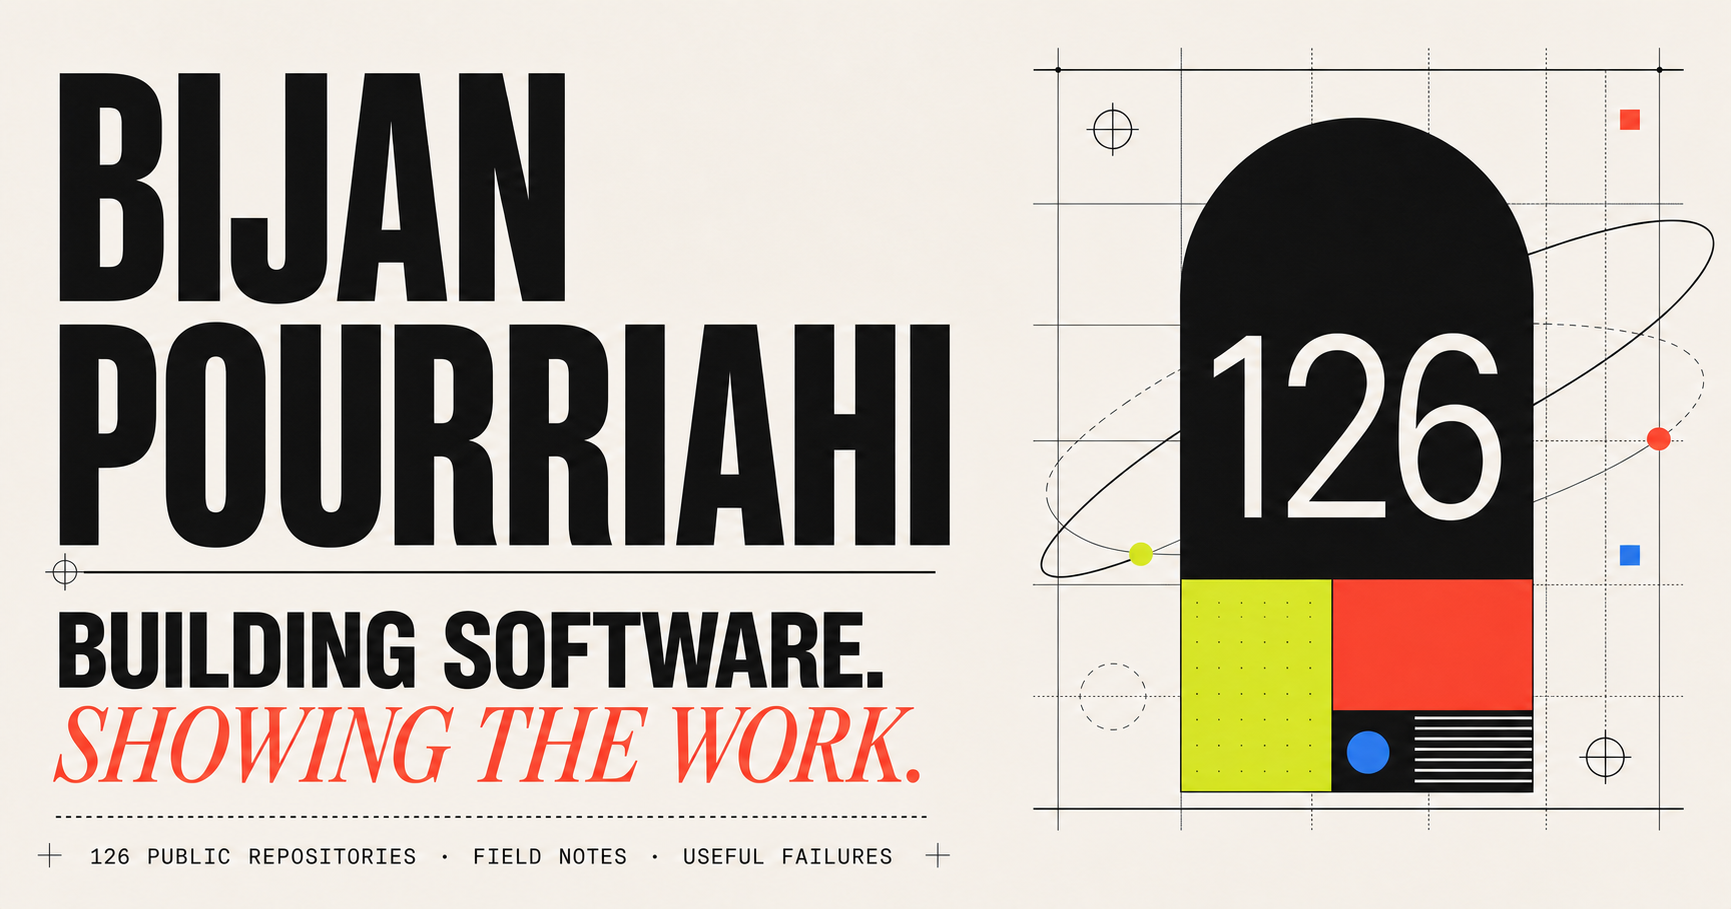
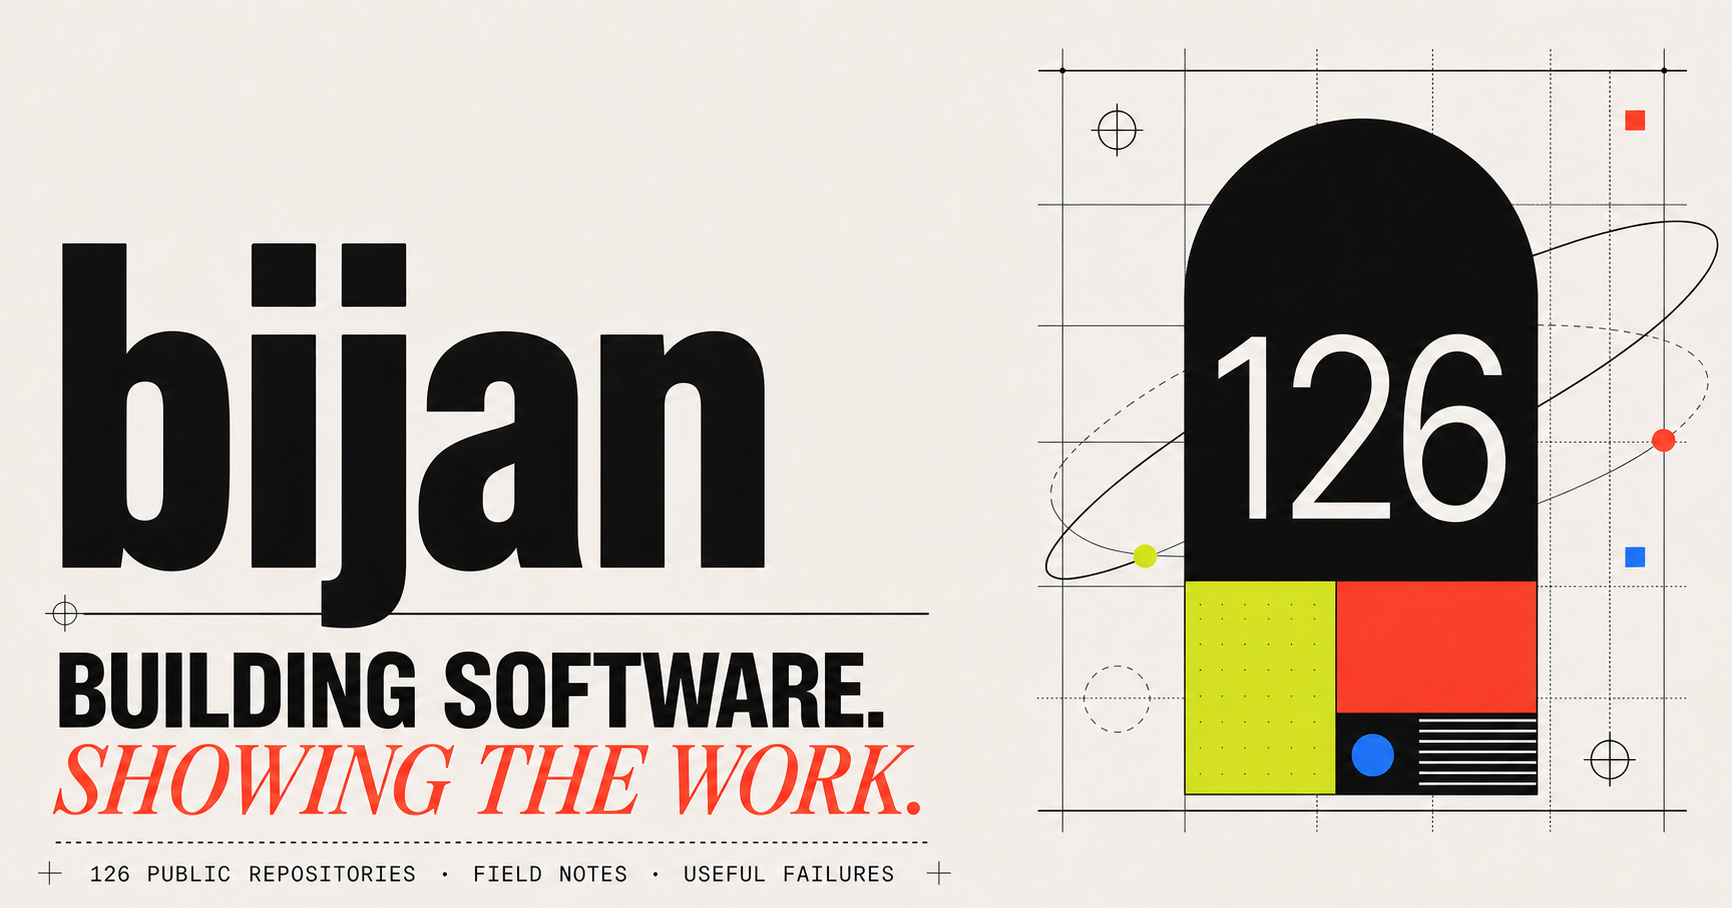
Use lowercase bijan identity

diff --git a/app/about/page.tsx b/app/about/page.tsx
@@ -2,7 +2,7 @@ import type { Metadata } from "next";
 import { PersonalSiteShell } from "@/components/PersonalSiteShell";
 import styles from "../site-pages.module.css";
 
-export const metadata: Metadata = { title: "About", description: "About Bijan Pourriahi." };
+export const metadata: Metadata = { title: "About", description: "About bijan." };
 
 const rules = [
   ["01", "show the state", "If a machine knows something important, the person operating it should be able to see it."],
@@ -14,10 +14,10 @@ export default function AboutPage() {
   return (
     <PersonalSiteShell section="about">
       <main>
-        <section className={styles.hero} data-mark="@"><p className={styles.overline}>about the person</p><h1>Bijan<br /><span>Pourriahi.</span></h1><p className={styles.deck}>Software engineer. I like systems that can explain what they are doing.</p></section>
+        <section className={styles.hero} data-mark="@"><p className={styles.overline}>about the person</p><h1><span>bijan.</span></h1><p className={styles.deck}>Software engineer. I like systems that can explain what they are doing.</p></section>
         <section className={styles.split}>
           <ul className={styles.facts}>
-            <li><span>github</span><span>beejmaxx</span></li><li><span>since</span><span>2010</span></li><li><span>repos</span><span>126 public</span></li><li><span>usual tools</span><span>Rust / Python / TS</span></li><li><span>email</span><span>bijan.pourriahi@gmail.com</span></li>
+            <li><span>github</span><span>beejmaxx</span></li><li><span>since</span><span>2010</span></li><li><span>repos</span><span>126 public</span></li><li><span>usual tools</span><span>Rust / Python / TS</span></li><li><span>contact</span><span><a href="mailto:bijan.pourriahi@gmail.com">email</a></span></li>
           </ul>
           <div className={styles.copy}>
             <p>I build trading infrastructure, developer tools, APIs, browser experiments, data systems, and agent-facing machinery.</p>

diff --git a/public/case-studies/marketplace-integrity.html b/public/case-studies/marketplace-integrity.html
@@ -3,7 +3,7 @@
   <head>
     <meta charset="utf-8">
     <meta name="viewport" content="width=device-width, initial-scale=1">
-    <title>Marketplace Integrity &amp; Anti-Bot Systems | Bijan Pourriahi</title>
+    <title>Marketplace Integrity &amp; Anti-Bot Systems | bijan</title>
     <meta name="description" content="An evidence-backed portfolio report covering four synthetic anti-bot systems: HTTP detection, adaptive red-teaming, economic ring investigation, and guarded marketplace intervention.">
     <meta property="og:type" content="article">
     <meta property="og:title" content="Marketplace Integrity &amp; Anti-Bot Systems">
@@ -12,7 +12,7 @@
     <meta property="og:image" content="https://beejmaxx.github.io/assets/marketplace-integrity-og.png">
     <meta property="og:image:width" content="1200">
     <meta property="og:image:height" content="630">
-    <meta property="og:image:alt" content="Marketplace Integrity — Anti-Bot Systems Portfolio by Bijan Pourriahi">
+    <meta property="og:image:alt" content="Marketplace Integrity — Anti-Bot Systems Portfolio by bijan">
     <meta name="twitter:card" content="summary_large_image">
     <meta name="twitter:image" content="https://beejmaxx.github.io/assets/marketplace-integrity-og.png">
     <meta name="theme-color" content="#07111f">
@@ -23,7 +23,7 @@
     <a class="skip-link" href="#report">Skip to report</a>
 
     <header class="integrity-header">
-      <a class="integrity-brand" href="/">Bijan Pourriahi</a>
+      <a class="integrity-brand" href="/">bijan</a>
       <nav class="integrity-nav" aria-label="Marketplace integrity report">
         <a href="#system">System</a>
         <a href="#evidence">Evidence</a>
@@ -472,7 +472,7 @@
 
     <footer class="integrity-footer">
       <div>
-        <strong>Bijan Pourriahi</strong>
+        <strong>bijan</strong>
         <p>Software systems · applied research · production ownership</p>
       </div>
       <div class="footer-links">

diff --git a/app/concepts/hybrid/page.tsx b/app/concepts/hybrid/page.tsx
@@ -12,7 +12,7 @@ export default function HybridConcept() {
   return (
     <div className={styles.page}>
       <header className={styles.header}>
-        <a className={styles.name} href="/concepts">Bijan Pourriahi</a>
+        <a className={styles.name} href="/concepts">bijan</a>
         <nav aria-label="Primary navigation">
           <a href="#work">Work</a>
           <a href="#systems">Systems</a>
@@ -26,7 +26,7 @@ export default function HybridConcept() {
         <section className={styles.hero}>
           <div>
             <p className={styles.eyebrow}>Software engineer</p>
-            <h1>Bijan Pourriahi.<br /><span>Work and experiments.</span></h1>
+            <h1>bijan.<br /><span>Work and experiments.</span></h1>
             <p className={styles.intro}>
               I build market systems, developer tools, research infrastructure, and browser
               experiments. This site collects the strongest work and the larger public record.
@@ -103,7 +103,7 @@ export default function HybridConcept() {
       </main>
 
       <footer className={styles.footer}>
-        <div><p className={styles.eyebrow}>Contact</p><a href="mailto:bijan.pourriahi@gmail.com">bijan.pourriahi@gmail.com</a></div>
+        <div><p className={styles.eyebrow}>Contact</p><a href="mailto:bijan.pourriahi@gmail.com">email</a></div>
         <nav aria-label="Homepage concepts">{conceptLinks.map(([label, href]) => <a href={href} key={href}>{label}</a>)}</nav>
       </footer>
     </div>

diff --git a/app/concepts/personal-web/page.tsx b/app/concepts/personal-web/page.tsx
@@ -7,7 +7,7 @@ import styles from "./personal-web.module.css";
 
 export const metadata: Metadata = {
   title: "Personal web homepage concept",
-  description: "An independent, personal-web-inspired portfolio concept for Bijan Pourriahi.",
+  description: "An independent, personal-web-inspired portfolio concept for bijan.",
 };
 
 export function PersonalWebHomepage({ showConceptNavigation = true, fixedTheme }: { showConceptNavigation?: boolean; fixedTheme?: ThemeId }) {
@@ -22,9 +22,9 @@ export function PersonalWebHomepage({ showConceptNavigation = true, fixedTheme }
           </a>
         )}
         <div className={styles.identity} aria-hidden="true">
-          <span>bp</span>
+          <span>b</span>
         </div>
-        <h1>Bijan Pourriahi</h1>
+        <h1>bijan</h1>
         <p className={styles.subtitle}>software · systems · experiments</p>
         <nav aria-label="Primary navigation" className={styles.iconNav}>
           <a href="#work">work</a>
@@ -175,7 +175,7 @@ export function PersonalWebHomepage({ showConceptNavigation = true, fixedTheme }
           <a href="/resume.pdf" title="Resume">
             <span aria-hidden="true">↓</span> Résumé
           </a>
-          <a href="mailto:bijan.pourriahi@gmail.com" title="Email Bijan">
+          <a href="mailto:bijan.pourriahi@gmail.com" title="Email bijan">
             <span aria-hidden="true">@</span> Email
           </a>
         </nav>

diff --git a/app/layout.tsx b/app/layout.tsx
@@ -4,26 +4,26 @@ import "./globals.css";
 export const metadata: Metadata = {
   metadataBase: new URL("https://beejmaxx.github.io"),
   title: {
-    default: "Bijan Pourriahi",
-    template: "%s — Bijan Pourriahi",
+    default: "bijan",
+    template: "%s — bijan",
   },
   description:
-    "Software projects, case studies, blog posts, and unfinished work by Bijan Pourriahi.",
+    "Software projects, case studies, blog posts, and unfinished work by bijan.",
   icons: {
     icon: "/favicon.svg",
     shortcut: "/favicon.svg",
   },
   openGraph: {
-    title: "Bijan Pourriahi",
+    title: "bijan",
     description: "Projects, case studies, blog posts, and unfinished work.",
     type: "website",
     url: "https://beejmaxx.github.io",
-    siteName: "Bijan Pourriahi",
-    images: [{ url: "/og.png", width: 1733, height: 909, alt: "Bijan Pourriahi" }],
+    siteName: "bijan",
+    images: [{ url: "/og.png", width: 1732, height: 908, alt: "bijan" }],
   },
   twitter: {
     card: "summary_large_image",
-    title: "Bijan Pourriahi",
+    title: "bijan",
     description: "Projects, case studies, blog posts, and unfinished work.",
     images: ["/og.png"],
   },

diff --git a/app/concepts/technical-index/page.tsx b/app/concepts/technical-index/page.tsx
@@ -8,7 +8,7 @@ export default function TechnicalIndexConcept() {
   return (
     <div className={styles.page}>
       <header className={styles.header}>
-        <div><b>BIJAN POURRIAHI</b><span>SOFTWARE ENGINEER</span></div>
+        <div><b>bijan</b><span>SOFTWARE ENGINEER</span></div>
         <nav aria-label="Homepage concepts">{conceptLinks.map(([label, href]) => <a href={href} key={href}>{label}</a>)}</nav>
         <div className={styles.status}><span>OPEN TO INTERESTING WORK</span><i /></div>
       </header>
@@ -23,7 +23,7 @@ export default function TechnicalIndexConcept() {
             <div><dt>Primary work</dt><dd>Real-time systems, developer platforms, research infrastructure</dd></div>
             <div><dt>Languages</dt><dd>Rust, Python, TypeScript, Go</dd></div>
             <div><dt>Public history</dt><dd>45 original repositories since 2010</dd></div>
-            <div><dt>Contact</dt><dd><a href="mailto:bijan.pourriahi@gmail.com">bijan.pourriahi@gmail.com</a></dd></div>
+            <div><dt>Contact</dt><dd><a href="mailto:bijan.pourriahi@gmail.com">email</a></dd></div>
           </dl>
         </section>
 

diff --git a/components/SiteHeader.tsx b/components/SiteHeader.tsx
@@ -2,9 +2,9 @@ export function SiteHeader() {
   return (
     <div className="inner-header">
       <header className="site-header">
-        <a className="wordmark" href="/" aria-label="Bijan Pourriahi, home">
-          <span className="wordmark-mark">BP</span>
-          <span>Bijan Pourriahi</span>
+        <a className="wordmark" href="/" aria-label="bijan, home">
+          <span className="wordmark-mark">b</span>
+          <span>bijan</span>
         </a>
         <nav className="main-nav" aria-label="Main navigation">
           <a href="/case-studies">Case studies</a>
@@ -23,7 +23,7 @@ export function SimpleFooter() {
     <footer className="site-footer wrap">
       <div>
         <p className="eyebrow">Contact</p>
-        <a className="footer-email" href="mailto:bijan.pourriahi@gmail.com">bijan.pourriahi@gmail.com ↗</a>
+        <a className="footer-email" href="mailto:bijan.pourriahi@gmail.com">email ↗</a>
       </div>
       <div className="footer-links">
         <a href="https://github.com/beejmaxx" target="_blank" rel="noreferrer">GitHub</a>

diff --git a/public/case-studies/full-stack-operations-workstation.html b/public/case-studies/full-stack-operations-workstation.html
@@ -3,12 +3,12 @@
   <head>
     <meta charset="utf-8">
     <meta name="viewport" content="width=device-width, initial-scale=1">
-    <title>Production Infrastructure Example: Operations Workstation | Bijan Pourriahi</title>
+    <title>Production Infrastructure Example: Operations Workstation | bijan</title>
     <link rel="stylesheet" href="/styles.css">
   </head>
   <body>
     <header class="site-header">
-      <div class="brand"><a href="/">Bijan Pourriahi</a></div>
+      <div class="brand"><a href="/">bijan</a></div>
       <nav class="nav" aria-label="Primary navigation">
         <a href="/resume.pdf">Resume</a>
         <a href="https://github.com/beejmaxx">GitHub</a>

diff --git a/components/PersonalSiteShell.tsx b/components/PersonalSiteShell.tsx
@@ -14,8 +14,8 @@ export function PersonalSiteShell({
     <ThemeShell>
       <div className={styles.page} id="top">
         <header className={styles.masthead}>
-          <a className={styles.identity} href="/" aria-label="Bijan Pourriahi, home"><span>bp</span></a>
-          <div><a className={styles.name} href="/">Bijan Pourriahi</a><p>{section}</p></div>
+          <a className={styles.identity} href="/" aria-label="bijan, home"><span>b</span></a>
+          <div><a className={styles.name} href="/">bijan</a><p>{section}</p></div>
           <nav aria-label="Main navigation">
             <a href="/work-map">stuff</a>
             <a href="/archive">everything</a>

diff --git a/public/case-studies/hedge-fund-trading-infrastructure.html b/public/case-studies/hedge-fund-trading-infrastructure.html
@@ -3,12 +3,12 @@
   <head>
     <meta charset="utf-8">
     <meta name="viewport" content="width=device-width, initial-scale=1">
-    <title>Automation & Analytics Infrastructure | Bijan Pourriahi</title>
+    <title>Automation & Analytics Infrastructure | bijan</title>
     <link rel="stylesheet" href="/styles.css">
   </head>
   <body>
     <header class="site-header">
-      <div class="brand"><a href="/">Bijan Pourriahi</a></div>
+      <div class="brand"><a href="/">bijan</a></div>
       <nav class="nav" aria-label="Primary navigation">
         <a href="/resume.pdf">Resume</a>
         <a href="https://github.com/beejmaxx">GitHub</a>

diff --git a/public/case-studies/quantbox-research-platform.html b/public/case-studies/quantbox-research-platform.html
@@ -3,12 +3,12 @@
   <head>
     <meta charset="utf-8">
     <meta name="viewport" content="width=device-width, initial-scale=1">
-    <title>Rust/Python Execution Platform | Bijan Pourriahi</title>
+    <title>Rust/Python Execution Platform | bijan</title>
     <link rel="stylesheet" href="/styles.css">
   </head>
   <body>
     <header class="site-header">
-      <div class="brand"><a href="/">Bijan Pourriahi</a></div>
+      <div class="brand"><a href="/">bijan</a></div>
       <nav class="nav" aria-label="Primary navigation">
         <a href="/resume.pdf">Resume</a>
         <a href="https://github.com/beejmaxx">GitHub</a>

diff --git a/app/concepts/notebook/page.tsx b/app/concepts/notebook/page.tsx
@@ -9,9 +9,9 @@ export default function NotebookConcept() {
   return (
     <div className={styles.page}>
       <aside className={styles.sidebar}>
-        <a className={styles.identity} href="/concepts">BP / WORK LOG</a>
+        <a className={styles.identity} href="/concepts">b / work log</a>
         <div className={styles.meta}>
-          <span>Bijan Pourriahi</span>
+          <span>bijan</span>
           <span>Software engineer</span>
           <span>Shanghai · UTC+8</span>
           <span>GitHub since 2010</span>
